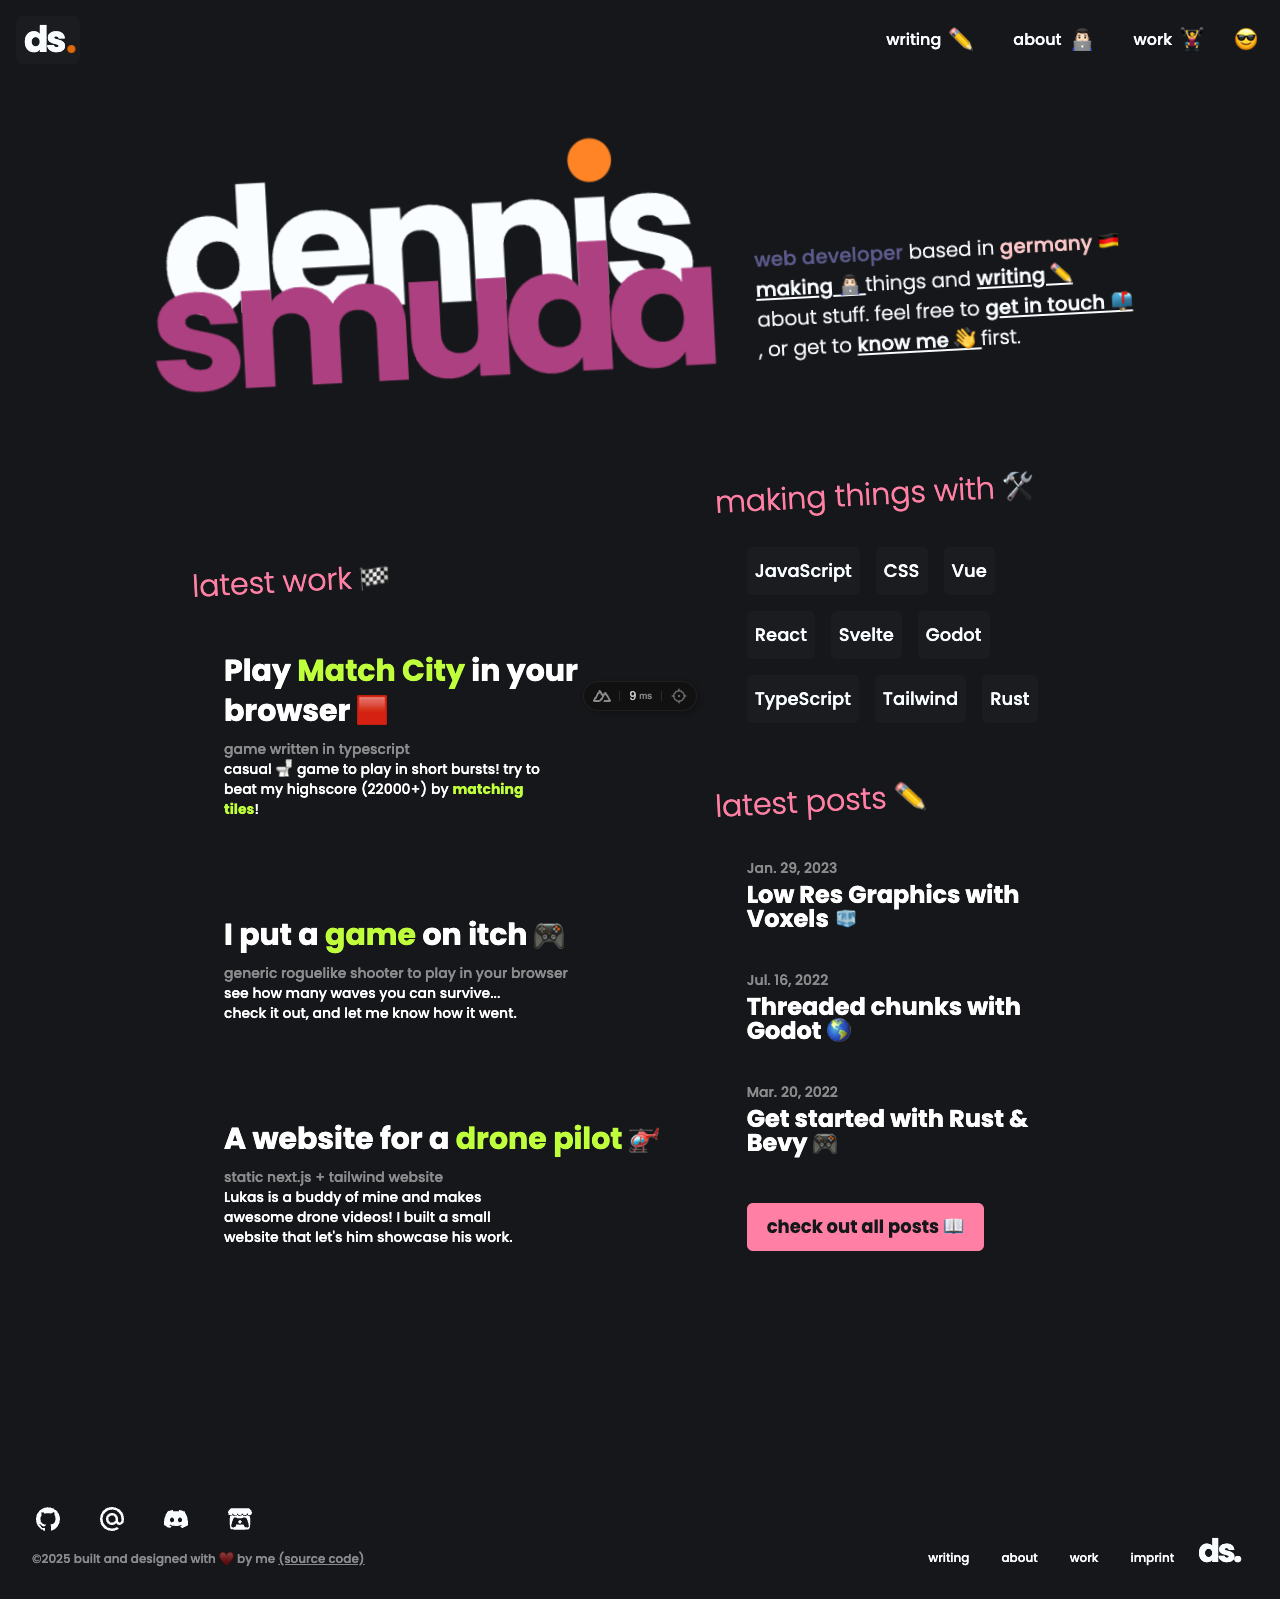
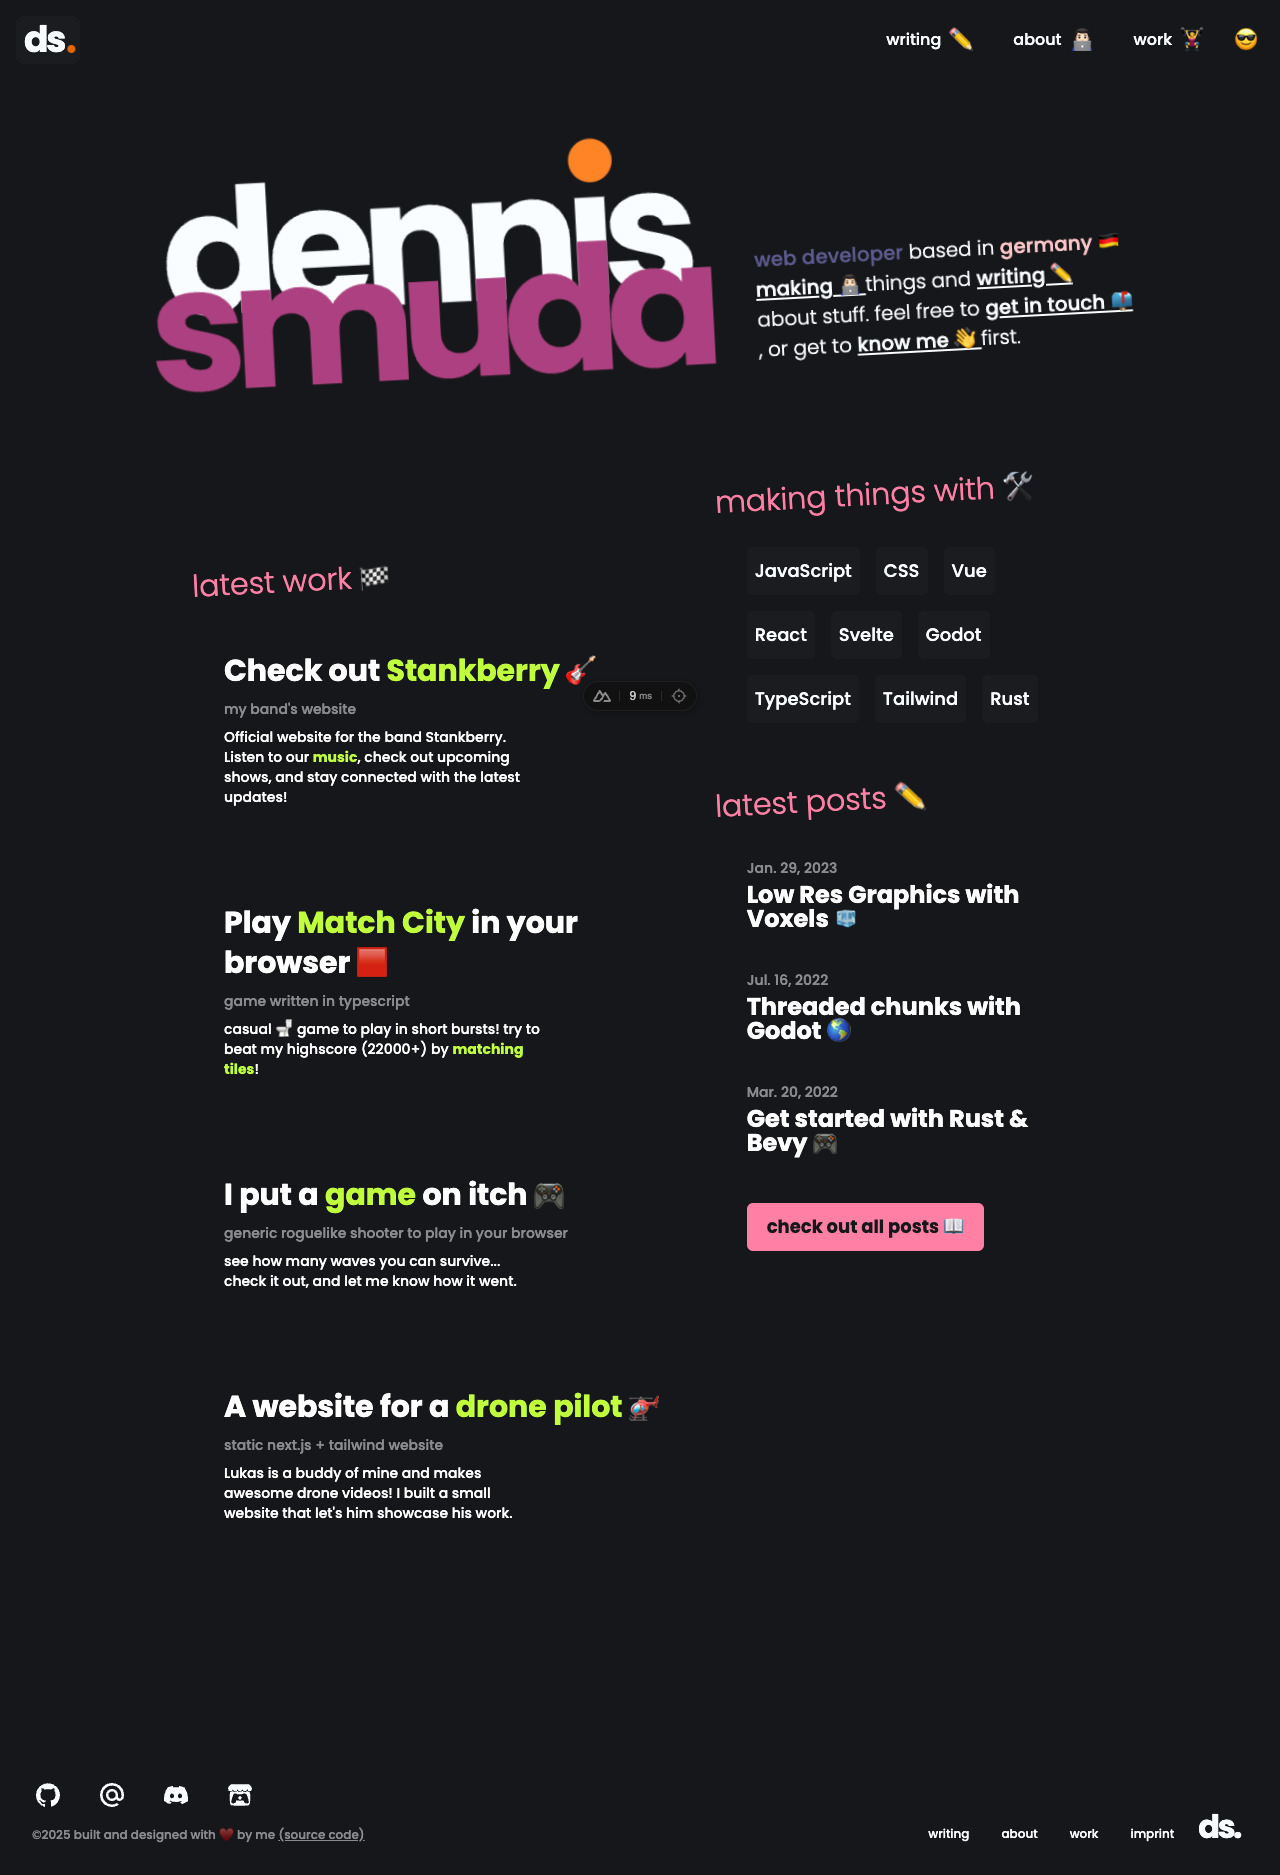
feat: add stankberry website as project (#175)
* feat: add stankberry website as project

* test: e2e test adjustments

diff --git a/features/projects/latest/LatestProjects.spec.ts b/features/projects/latest/LatestProjects.spec.ts
@@ -7,11 +7,12 @@ import { checkA11y } from '~/test/utils'
 import LatestProjects from './LatestProjects.vue'
 
 const getLatestProjects = vi.fn()
+const LATEST_PROJECTS_LIMIT = 4
 
 vi.mock('@/entities/project/model/useProjects', () => ({
   useProjects: () => ({
     getLatestProjects,
-    latestProjects: ref(MOCK_PROJECTS.slice(0, 3) as ProjectsCollectionItem[]),
+    latestProjects: ref(MOCK_PROJECTS.slice(0, LATEST_PROJECTS_LIMIT) as ProjectsCollectionItem[]),
   }),
 }))
 
@@ -36,7 +37,7 @@ describe('feature: LatestProjects', () => {
   describe('latest projects list', () => {
     it('should render latest projects', () => {
       const wrapper = mountLatestProjects()
-      expect(wrapper.findAll('.project').length).toBe(3)
+      expect(wrapper.findAll('.project').length).toBe(LATEST_PROJECTS_LIMIT)
       wrapper.unmount()
     })
 

diff --git a/test/e2e/home-page.test.ts b/test/e2e/home-page.test.ts
@@ -28,7 +28,7 @@ test.describe('page: index', async () => {
 
   test('shows my three latest projects', async ({ page }) => {
     const projects = await page.locator('a.project')
-    await expect(projects).toHaveCount(3)
+    await expect(projects).toHaveCount(4)
 
     const firstEntry = projects.nth(0)
     await expect(firstEntry).toHaveAttribute('target', '_blank')

diff --git a/test/e2e/work-page.test.ts b/test/e2e/work-page.test.ts
@@ -15,6 +15,6 @@ test.describe('page: work', () => {
 
   test(`shows all ${6} projects`, async ({ page }) => {
     const projects = await page.locator('.project')
-    await expect(projects).toHaveCount(6)
+    await expect(projects).toHaveCount(7)
   })
 })

diff --git a/entities/project/api/getLatestProjectsQuery.ts b/entities/project/api/getLatestProjectsQuery.ts
@@ -1,3 +1,3 @@
 export function getLatestProjectsQuery() {
-  return queryCollection('projects').order('order', 'DESC').limit(3).all()
+  return queryCollection('projects').order('order', 'DESC').limit(4).all()
 }

diff --git a/shared-ui/project/Project.vue b/shared-ui/project/Project.vue
@@ -43,7 +43,7 @@ a.project {
 }
 
 .project__subline {
-  @apply mt-2 mb-0 text-sm opacity-50 pointer-events-none;
+  @apply my-2 text-sm opacity-50 pointer-events-none;
 }
 
 .project__description {

diff --git a/content/projects/stankberry.md b/content/projects/stankberry.md
@@ -1,0 +1,7 @@
+---
+url: 'https://stankberry.band'
+headline: 'Check out <span class="emphasis">Stankberry</span> 🎸'
+subline: "my band's website"
+description: 'Official website for the band Stankberry. Listen to our <span class="emphasis">music</span>, check out upcoming shows, and stay connected with the latest updates!'
+order: 7
+---
